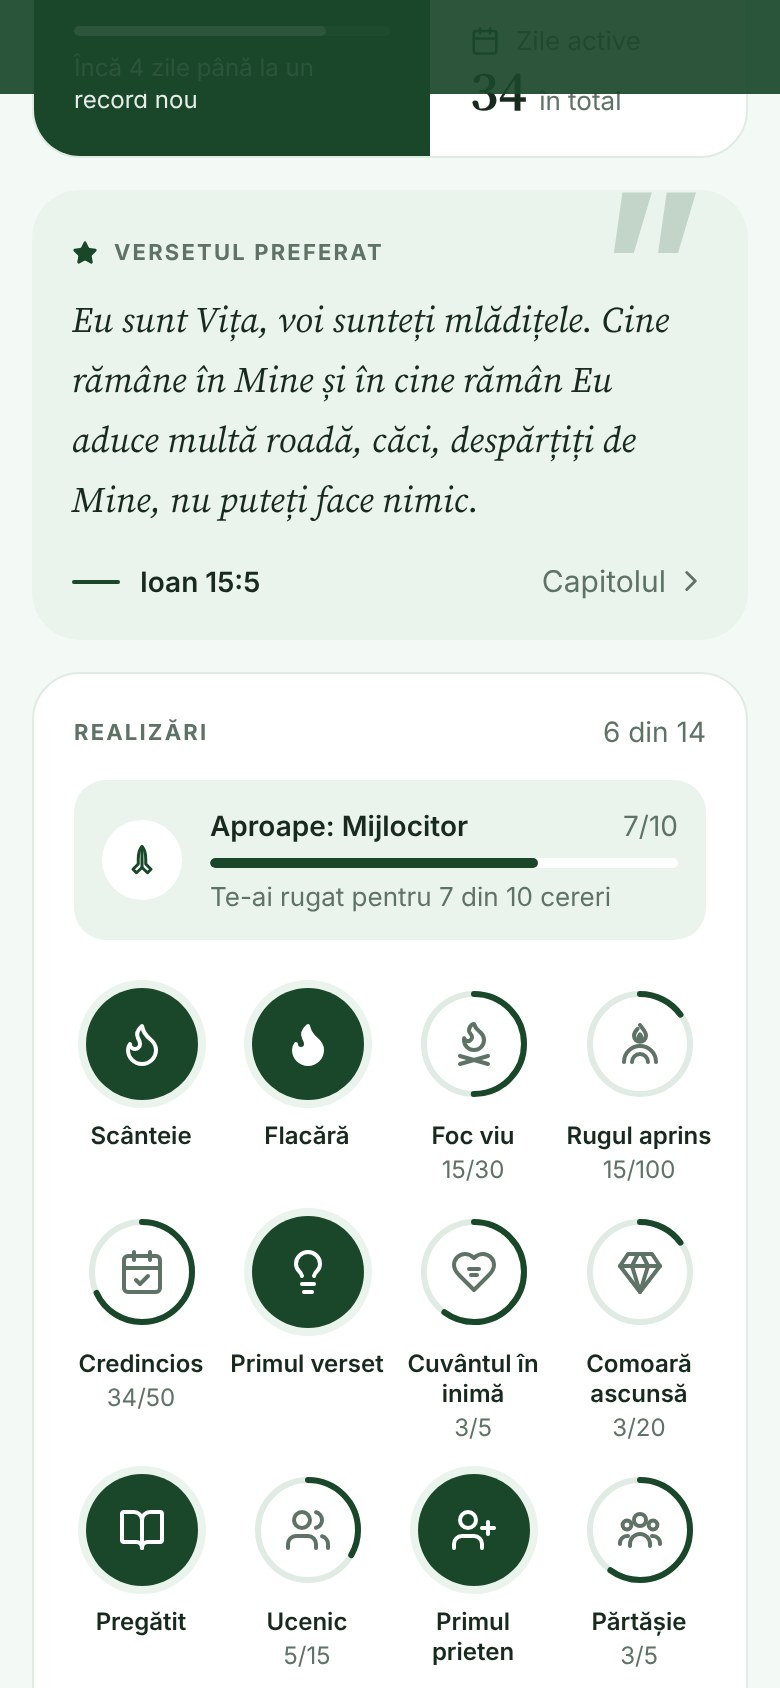
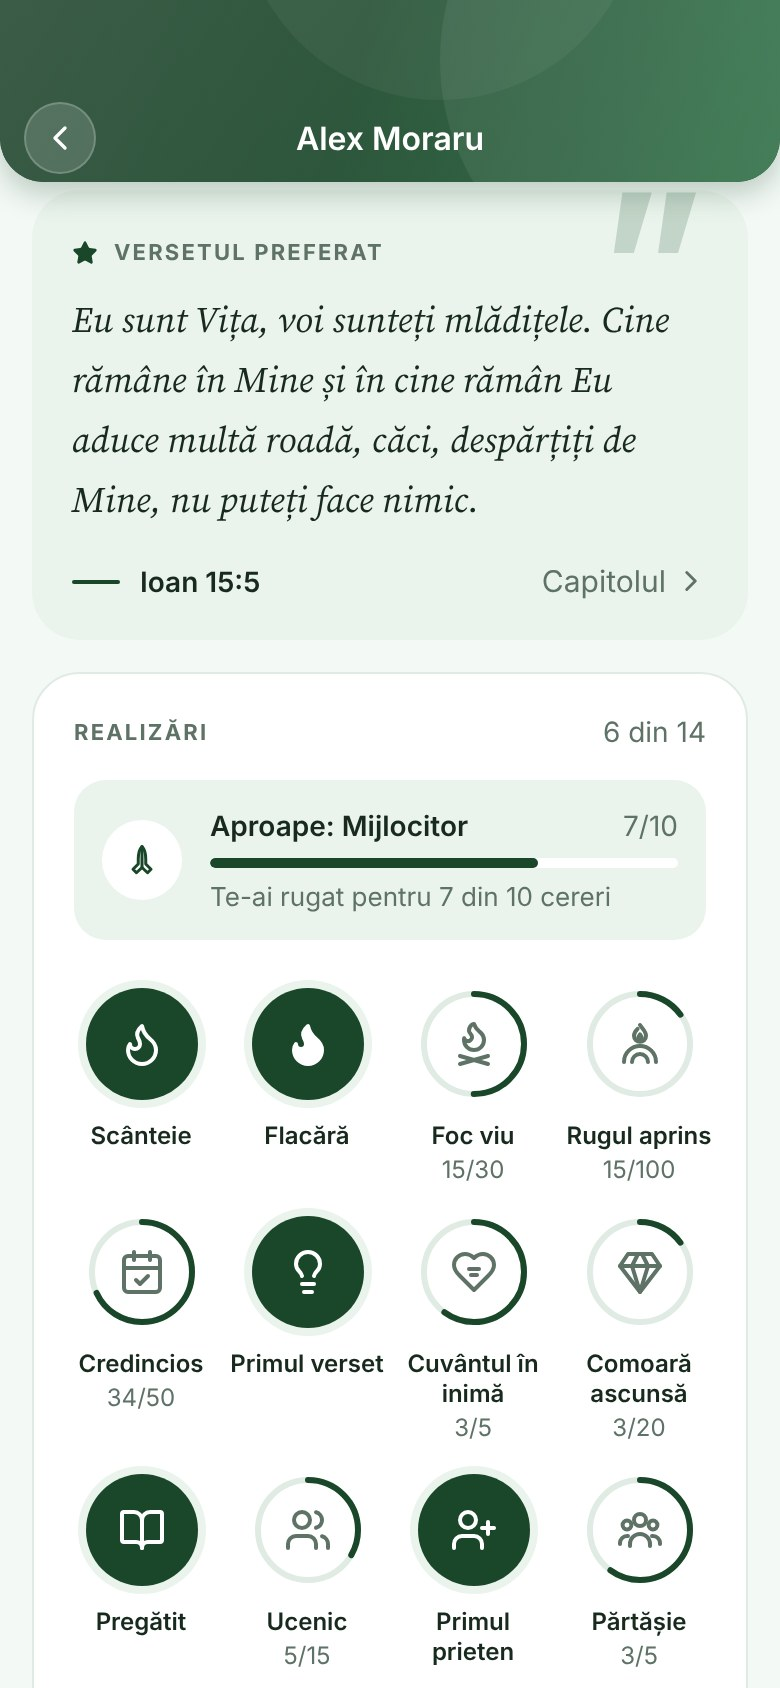
Bara de sus pe Acasă, Donează și Profil: bară strânsă cu gradient în loc de banda plată
- Banda plată de sub bara de stare (StatusBarScrim) a ieșit. În locul ei, CollapsedBar: cât antetul
  mare e pe ecran nu se vede; când iese, apare o bară îngustă cu același gradient și colțuri
  rotunjite ca restul antetelor, cu titlul (Biserica Betania, Donează, numele din profil).
  Întâi fundalul, apoi titlul, ca să nu se suprapună cu titlul mare care trece pe dedesubt.
- Pe profil bara are și butonul înapoi. Ascunsă, bara nu primește atingeri și nu există pentru
  cititorul de ecran.
- Reîmprospătarea pe profil: la tras în jos antetul se întinde în sus (fără blocul plat și fără
  linia dintre el și gradient). Pe iOS spinner-ul nativ ar fi stat sub insula din vârf: e ascuns și
  în locul lui apare unul alb, într-un cerc de sticlă, sub bara de stare. Pe Android spinner-ul
  coboară sub bara de stare.
- Capturile refăcute (Acasă, Donează, Profil) și planșele.

Changed region(s): [[0.0, 0.0, 1.0, 0.1232]]

diff --git a/app/profil.tsx b/app/profil.tsx
@@ -1,5 +1,5 @@
-import React, { useCallback, useEffect, useState } from 'react';
-import { View, Text, ScrollView, TouchableOpacity, ActivityIndicator, RefreshControl, useWindowDimensions } from 'react-native';
+import React, { useCallback, useEffect, useRef, useState } from 'react';
+import { View, Text, Animated, Platform, TouchableOpacity, ActivityIndicator, RefreshControl, useWindowDimensions } from 'react-native';
 import { Ionicons } from '@expo/vector-icons';
 import { Redirect, useLocalSearchParams, useRouter } from 'expo-router';
 import { useSafeAreaInsets } from 'react-native-safe-area-context';
@@ -20,9 +20,8 @@ import AchievementsGrid from '../components/AchievementsGrid';
 import Icon, { IconName } from '../components/Icon';
 import ProgressBar from '../components/ProgressBar';
 import HeaderBackground from '../components/HeaderBackground';
-import { mix } from '../lib/color';
 import SectionLabel from '../components/SectionLabel';
-import StatusBarScrim from '../components/StatusBarScrim';
+import CollapsedBar, { useCollapsedBarHeight } from '../components/CollapsedBar';
 import { useCommunity } from '../lib/community';
 
 const AVATAR = 120;
@@ -43,6 +42,14 @@ export default function ProfileScreen() {
   const [refreshing, setRefreshing] = useState(false);
   const [missing, setMissing] = useState<'notFound' | 'error' | null>(null);
   const profile = isMe ? me : other;
+  const insets = useSafeAreaInsets();
+  const scrollY = useRef(new Animated.Value(0)).current;
+  const barHeight = useCollapsedBarHeight();
+
+  const goBack = () => {
+    if (router.canGoBack()) router.back();
+    else router.replace('/');
+  };
 
   const load = useCallback(async () => {
     if (!id || !session) return;
@@ -83,15 +90,18 @@ export default function ProfileScreen() {
 
   return (
     <View className="flex-1 bg-cream">
-      <ScrollView
+      <Animated.ScrollView
         contentContainerStyle={{ paddingBottom: 48 }}
+        scrollEventThrottle={16}
+        onScroll={Animated.event([{ nativeEvent: { contentOffset: { y: scrollY } } }], { useNativeDriver: true })}
         refreshControl={
           <RefreshControl
             refreshing={refreshing}
-            tintColor="white"
+            // Pe iOS spinner-ul nativ ar sta sub insula din vârf; îl ascundem și arătăm unul propriu, sub bara de stare.
+            tintColor="transparent"
             colors={[colors.primary]}
-            // Pe iOS spinner-ul stă în spatele conținutului, iar antetul are un fundal verde peste el.
-            style={{ zIndex: 1 }}
+            progressBackgroundColor={colors.card}
+            progressViewOffset={insets.top + 8}
             onRefresh={async () => {
               setRefreshing(true);
               await load();
@@ -100,7 +110,7 @@ export default function ProfileScreen() {
           />
         }
       >
-        <ProfileHeader title={t('profileTitle')} />
+        <ProfileHeader title={t('profileTitle')} scrollY={scrollY} onBack={goBack} />
 
         <View className="items-center px-4" style={{ marginTop: -(AVATAR / 2 + AVATAR_RING) }}>
           <View style={{ borderRadius: AVATAR / 2 + AVATAR_RING, borderWidth: AVATAR_RING, borderColor: colors.bg }}>
@@ -143,37 +153,77 @@ export default function ProfileScreen() {
             {t('memberSince')} {formatDate(language, new Date(profile.created_at))}
           </Text>
         </View>
-      </ScrollView>
-      <StatusBarScrim />
+      </Animated.ScrollView>
+      {Platform.OS === 'ios' && <PullSpinner scrollY={scrollY} refreshing={refreshing} />}
+      <CollapsedBar scrollY={scrollY} showAt={188 - (barHeight - insets.top) - 24} title={fullName(profile)} onBack={goBack} />
     </View>
   );
 }
 
-/** Antetul profilului: accentul închis, cu arcuri concentrice în jurul pozei (care stă pe jumătate peste el). */
-function ProfileHeader({ title }: { title: string }) {
-  const router = useRouter();
+/** Spinner-ul de reîmprospătare pe iOS: apare sub bara de stare cât tragi în jos și stă acolo până se încarcă. */
+function PullSpinner({ scrollY, refreshing }: { scrollY: Animated.Value; refreshing: boolean }) {
+  const insets = useSafeAreaInsets();
+  const pulled = scrollY.interpolate({ inputRange: [-90, -30], outputRange: [1, 0], extrapolate: 'clamp' });
+  const scale = pulled.interpolate({ inputRange: [0, 1], outputRange: [0.6, 1] });
+  return (
+    <Animated.View
+      pointerEvents="none"
+      style={{
+        position: 'absolute',
+        top: insets.top + 6,
+        alignSelf: 'center',
+        opacity: refreshing ? 1 : pulled,
+        transform: [{ scale: refreshing ? 1 : scale }],
+      }}
+    >
+      <View className="w-9 h-9 rounded-full bg-white/20 border border-white/25 items-center justify-center">
+        <ActivityIndicator size="small" color="white" />
+      </View>
+    </Animated.View>
+  );
+}
+
+/**
+ * Antetul profilului: accentul închis, cu arcuri concentrice în jurul pozei (care stă pe jumătate peste el).
+ * La tras în jos fundalul se întinde în sus (marginea de jos rămâne pe loc), ca să nu se vadă un gol.
+ */
+function ProfileHeader({ title, scrollY, onBack }: { title: string; scrollY: Animated.Value; onBack: () => void }) {
   const insets = useSafeAreaInsets();
   const { width } = useWindowDimensions();
   const { colors } = useTheme();
   const height = insets.top + 188;
+  const pull = scrollY.interpolate({ inputRange: [-height, 0], outputRange: [-height, 0], extrapolateRight: 'clamp' });
+  const scale = pull.interpolate({ inputRange: [-height, 0], outputRange: [2, 1] });
+  // Mărirea pornește din centru: mutăm cu jumătate din tras, ca marginea de sus să rămână lipită de ecran.
+  const translateY = Animated.multiply(pull, 0.5);
   return (
     <View style={{ height }}>
-      {/* La tras în jos (iOS) se vede tot accentul, nu fundalul (în afara părții rotunjite, ca să nu fie tăiat). */}
-      <View style={{ position: 'absolute', top: -600, left: 0, right: 0, height: 640, backgroundColor: mix(colors.primaryDeep, '#000000', 0.14) }} />
-      <View style={{ position: 'absolute', top: 0, left: 0, right: 0, bottom: 0, borderBottomLeftRadius: 32, borderBottomRightRadius: 32, overflow: 'hidden', backgroundColor: colors.primaryDeep }}>
+      <Animated.View
+        style={{
+          position: 'absolute',
+          top: 0,
+          left: 0,
+          right: 0,
+          bottom: 0,
+          borderBottomLeftRadius: 32,
+          borderBottomRightRadius: 32,
+          overflow: 'hidden',
+          backgroundColor: colors.primaryDeep,
+          transform: [{ translateY }, { scale }],
+        }}
+      >
         <HeaderBackground />
         <Svg width={width} height={height} style={{ position: 'absolute' }}>
           {[90, 128, 166, 204, 242, 280, 318].map((r) => (
             <Circle key={r} cx={width / 2} cy={height} r={r} stroke="white" strokeOpacity={0.1} strokeWidth={1.5} fill="none" />
           ))}
         </Svg>
-      </View>
+      </Animated.View>
       <View className="flex-row items-center px-4" style={{ paddingTop: insets.top + 8 }}>
         <TouchableOpacity
           onPress={() => {
             tap();
-            if (router.canGoBack()) router.back();
-            else router.replace('/');
+            onBack();
           }}
           activeOpacity={0.7}
           hitSlop={8}

diff --git a/components/CollapsedBar.tsx b/components/CollapsedBar.tsx
@@ -1,0 +1,109 @@
+import React, { useEffect, useRef, useState } from 'react';
+import { Animated, Text, TouchableOpacity, View } from 'react-native';
+import { useSafeAreaInsets } from 'react-native-safe-area-context';
+import { useLanguage } from '../i18n';
+import { useTheme } from '../lib/theme';
+import { tap } from '../lib/haptics';
+import HeaderBackground from './HeaderBackground';
+import Icon from './Icon';
+
+const BAR = 44;
+const RADIUS = 22;
+/** Pe ce distanță de derulare apare bara. */
+const FADE = 40;
+
+interface Props {
+  /** Derularea ecranului (Animated.ScrollView cu onScroll pe scrollY). */
+  scrollY: Animated.Value;
+  /** Derularea la care bara e complet vizibilă: când antetul mare a ieșit de sub bara de stare. */
+  showAt: number;
+  title: string;
+  onBack?: () => void;
+}
+
+/** Înălțimea barei strânse (cu bara de stare), ca ecranele să știe când ajunge antetul mare sub ea. */
+export function useCollapsedBarHeight() {
+  return useSafeAreaInsets().top + BAR;
+}
+
+/**
+ * Bara de sus pentru ecranele cu antet mare (Acasă, Donează, Profil): cât antetul e pe ecran nu se vede;
+ * când iese, apare în locul lui o bară îngustă, cu același gradient și colțuri rotunjite, și titlul.
+ */
+export default function CollapsedBar({ scrollY, showAt, title, onBack }: Props) {
+  const insets = useSafeAreaInsets();
+  const { colors } = useTheme();
+  const { t } = useLanguage();
+  const [shown, setShown] = useState(false);
+  const shownRef = useRef(false);
+
+  // Atingerile trec prin bară cât e ascunsă; starea se schimbă doar la trecerea pragului.
+  useEffect(() => {
+    const id = scrollY.addListener(({ value }) => {
+      const next = value > showAt - FADE / 2;
+      if (next !== shownRef.current) {
+        shownRef.current = next;
+        setShown(next);
+      }
+    });
+    return () => scrollY.removeListener(id);
+  }, [scrollY, showAt]);
+
+  // Întâi fundalul (acoperă titlul mare care trece pe dedesubt), apoi titlul barei: cele două nu se suprapun.
+  const progress = scrollY.interpolate({ inputRange: [showAt - FADE, showAt - 12], outputRange: [0, 1], extrapolate: 'clamp' });
+  const titleOpacity = scrollY.interpolate({ inputRange: [showAt - 12, showAt], outputRange: [0, 1], extrapolate: 'clamp' });
+  const translateY = progress.interpolate({ inputRange: [0, 1], outputRange: [-10, 0] });
+
+  return (
+    <Animated.View
+      pointerEvents={shown ? 'auto' : 'none'}
+      // Ascunsă, nu există nici pentru cititorul de ecran (titlul ar fi citit de două ori).
+      aria-hidden={!shown}
+      style={{
+        position: 'absolute',
+        top: 0,
+        left: 0,
+        right: 0,
+        height: insets.top + BAR,
+        opacity: progress,
+        transform: [{ translateY }],
+        borderBottomLeftRadius: RADIUS,
+        borderBottomRightRadius: RADIUS,
+        backgroundColor: colors.primaryDeep,
+        shadowColor: colors.isDark ? '#000000' : colors.primaryDeep,
+        shadowOpacity: 0.25,
+        shadowRadius: 14,
+        shadowOffset: { width: 0, height: 6 },
+        elevation: 6,
+      }}
+    >
+      <View
+        style={{ position: 'absolute', top: 0, left: 0, right: 0, bottom: 0, borderBottomLeftRadius: RADIUS, borderBottomRightRadius: RADIUS, overflow: 'hidden' }}
+      >
+        <HeaderBackground />
+      </View>
+      <Animated.View style={{ flexDirection: 'row', alignItems: 'center', paddingHorizontal: 12, marginTop: insets.top, height: BAR, opacity: titleOpacity }}>
+        {onBack && shown ? (
+          <TouchableOpacity
+            onPress={() => {
+              tap();
+              onBack();
+            }}
+            hitSlop={8}
+            accessibilityRole="button"
+            accessibilityLabel={t('back')}
+            className="w-9 h-9 rounded-full bg-white/15 border border-white/20 items-center justify-center"
+          >
+            <Icon name="chevron-left" size={20} color="white" />
+          </TouchableOpacity>
+        ) : (
+          <View className="w-9" />
+        )}
+        <Text className="flex-1 text-white font-ui-semibold text-[16px] text-center mx-2" numberOfLines={1}>
+          {shown ? title : ''}
+        </Text>
+        <View className="w-9" />
+      </Animated.View>
+    </Animated.View>
+  );
+}

diff --git a/app/(tabs)/index.tsx b/app/(tabs)/index.tsx
@@ -17,7 +17,7 @@ import { DAY_NAMES, timeUntil } from '../../lib/format';
 import { success, tap } from '../../lib/haptics';
 import { YOUTUBE_LIVE } from '../../config/links';
 import LanguageToggle from '../../components/LanguageToggle';
-import StatusBarScrim from '../../components/StatusBarScrim';
+import CollapsedBar, { useCollapsedBarHeight } from '../../components/CollapsedBar';
 import Hero from '../../components/Hero';
 import LessonCard from '../../components/LessonCard';
 import PressableScale from '../../components/PressableScale';
@@ -61,6 +61,8 @@ export default function HomeScreen() {
   const isFavorite = !!highlightOf(verseFavKey);
 
   const scrollY = useRef(new Animated.Value(0)).current;
+  const [heroHeight, setHeroHeight] = useState(0);
+  const barHeight = useCollapsedBarHeight();
   const fade = useRef(new Animated.Value(0)).current;
   useEffect(() => {
     fade.setValue(0);
@@ -126,7 +128,7 @@ export default function HomeScreen() {
         scrollEventThrottle={16}
         onScroll={Animated.event([{ nativeEvent: { contentOffset: { y: scrollY } } }], { useNativeDriver: true })}
       >
-        <Hero scrollY={scrollY} fadeHeight={140}>
+        <Hero scrollY={scrollY} fadeHeight={140} onHeight={setHeroHeight}>
           <View style={{ paddingTop: insets.top + 12, paddingBottom: 92 }} className="px-5">
             <View className="flex-row items-center justify-between">
               <TouchableOpacity
@@ -369,7 +371,8 @@ export default function HomeScreen() {
   
         <Text className="text-center text-muted text-xs mt-4 px-8 leading-5">{t('subtitle')}</Text>
       </Animated.ScrollView>
-      <StatusBarScrim />
+      {/* Bara apare când poza bisericii a trecut pe sub bara de stare. */}
+      {heroHeight > 0 && <CollapsedBar scrollY={scrollY} showAt={heroHeight - barHeight - 84} title={t('churchName')} />}
     </View>
   );
 }

diff --git a/app/(tabs)/doneaza.tsx b/app/(tabs)/doneaza.tsx
@@ -20,7 +20,7 @@ import { useTheme } from '../../lib/theme';
 import { tap } from '../../lib/haptics';
 import { DONATION_LINKS, PRESET_AMOUNTS } from '../../config/links';
 import LanguageToggle from '../../components/LanguageToggle';
-import StatusBarScrim from '../../components/StatusBarScrim';
+import CollapsedBar, { useCollapsedBarHeight } from '../../components/CollapsedBar';
 import Hero from '../../components/Hero';
 import { useTabBarSpace } from '../../components/GlassTabBar';
 
@@ -32,6 +32,8 @@ export default function DonateScreen() {
   const router = useRouter();
   const insets = useSafeAreaInsets();
   const scrollY = useRef(new Animated.Value(0)).current;
+  const [heroHeight, setHeroHeight] = useState(0);
+  const barHeight = useCollapsedBarHeight();
 
   const [selectedAmount, setSelectedAmount] = useState<number>(100);
   const [customAmount, setCustomAmount] = useState('');
@@ -75,7 +77,7 @@ export default function DonateScreen() {
         scrollEventThrottle={16}
         onScroll={Animated.event([{ nativeEvent: { contentOffset: { y: scrollY } } }], { useNativeDriver: true })}
       >
-        <Hero scrollY={scrollY} fadeHeight={90}>
+        <Hero scrollY={scrollY} fadeHeight={90} onHeight={setHeroHeight}>
           <View style={{ paddingTop: insets.top + 12 }} className="px-5 pb-14">
             <LanguageToggle />
 
@@ -209,7 +211,7 @@ export default function DonateScreen() {
           <Text className="text-center text-muted text-xs mt-5 leading-5 px-4">{t('subtitle')}</Text>
         </View>
       </Animated.ScrollView>
-      <StatusBarScrim />
+      {heroHeight > 0 && <CollapsedBar scrollY={scrollY} showAt={heroHeight - barHeight - 54} title={t('tabDonate')} />}
     </KeyboardAvoidingView>
   );
 }

diff --git a/components/Hero.tsx b/components/Hero.tsx
@@ -9,6 +9,8 @@ interface Props {
   /** Cât de jos începe trecerea în culoarea fundalului. */
   fadeHeight?: number;
   style?: StyleProp<ViewStyle>;
+  /** Înălțimea antetului, după ce s-a așezat (pentru bara strânsă). */
+  onHeight?: (height: number) => void;
   children: React.ReactNode;
 }
 
@@ -16,7 +18,7 @@ interface Props {
  * Antetul cu poza bisericii. La tras în jos (bounce pe iOS) poza se mărește și acoperă golul de sus,
  * iar marginea de jos se topește în culoarea fundalului, pentru orice culoare și temă.
  */
-export default function Hero({ scrollY, fadeHeight = 120, style, children }: Props) {
+export default function Hero({ scrollY, fadeHeight = 120, style, onHeight, children }: Props) {
   const { colors } = useTheme();
   const [height, setHeight] = useState(360);
   const gradientId = `heroFade${useId().replace(/[^a-zA-Z0-9]/g, '')}`;
@@ -27,7 +29,14 @@ export default function Hero({ scrollY, fadeHeight = 120, style, children }: Pro
   const translateY = Animated.multiply(pull, 0.5);
 
   return (
-    <View style={style} onLayout={(e) => setHeight(Math.max(1, e.nativeEvent.layout.height))}>
+    <View
+      style={style}
+      onLayout={(e) => {
+        const h = Math.max(1, e.nativeEvent.layout.height);
+        setHeight(h);
+        onHeight?.(h);
+      }}
+    >
       <Animated.View
         pointerEvents="none"
         style={{ position: 'absolute', top: 0, left: 0, right: 0, height, transform: [{ translateY }, { scale }] }}

diff --git a/i18n/translations.ts b/i18n/translations.ts
@@ -142,6 +142,7 @@ const ro = {
   challengeDone: 'Versetul e memorat! Mai poți aduna stele, până la 9.',
   challengePlay: 'Joacă',
   challengeAgain: 'Din nou',
+  back: 'Înapoi',
   memoryMenuDesc: 'Jocuri scurte ca să înveți versete pe de rost',
   weeklyVerse: 'Versetul săptămânii',
   hideText: 'Ascunde',
@@ -461,6 +462,7 @@ const ru: Record<TranslationKey, string> = {
   challengeDone: 'Стих выучен! Можно собрать ещё звёзд, до 9.',
   challengePlay: 'Играть',
   challengeAgain: 'Ещё раз',
+  back: 'Назад',
   memoryMenuDesc: 'Короткие игры, чтобы выучить стихи наизусть',
   weeklyVerse: 'Стих недели',
   hideText: 'Скрыть',
